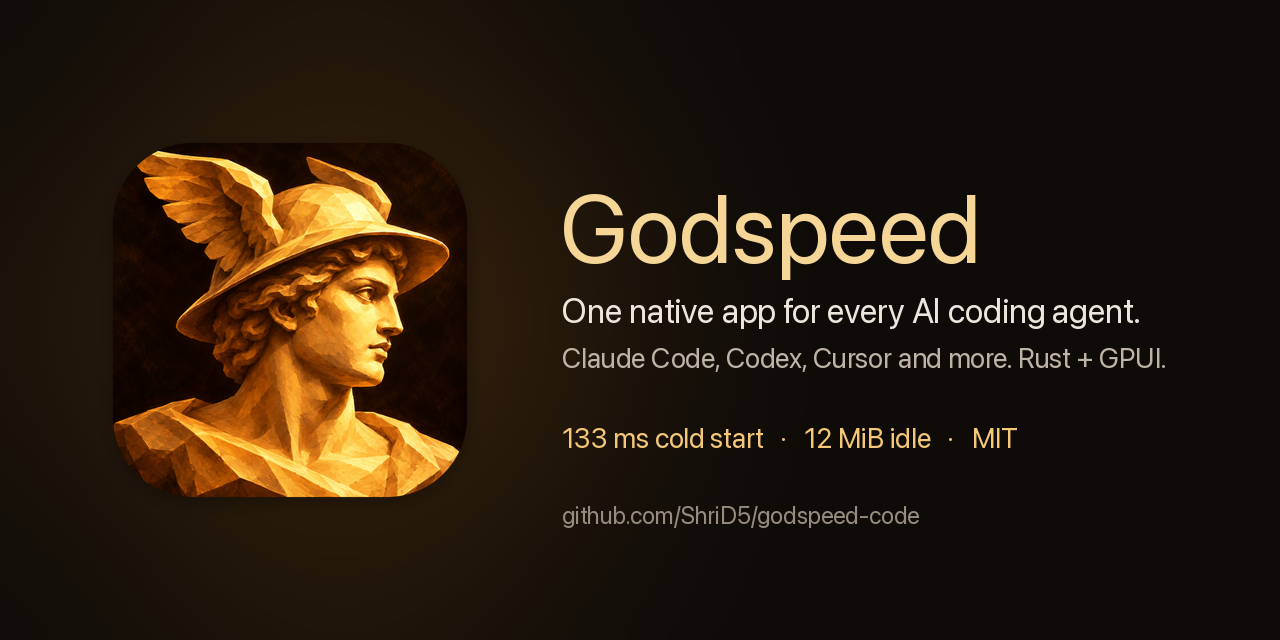
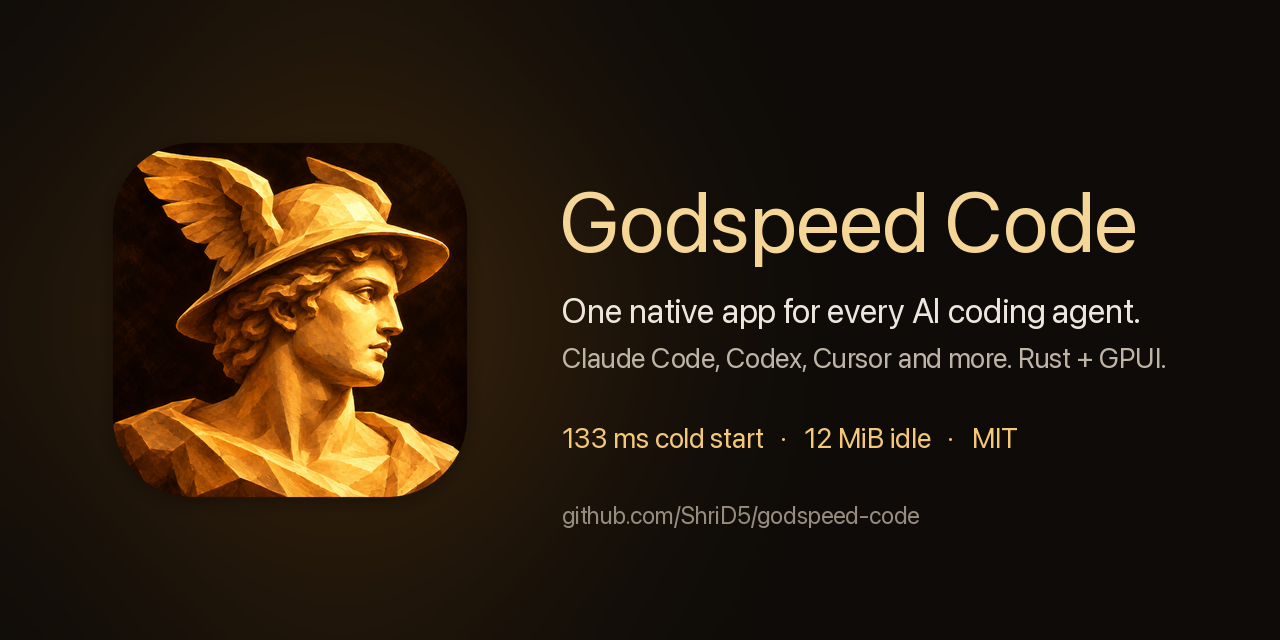
docs: use the public name Godspeed Code

Changed region(s): [[0.4375, 0.2812, 0.9062, 0.4375]]

diff --git a/docs/godspeed/LAUNCH.md b/docs/godspeed/LAUNCH.md
@@ -17,10 +17,12 @@ The repo went public on 2026-10-19 as ShriD5/godspeed-code.
 
 ## Owner decisions (blockers)
 
-1. **Name.** "Godspeed – To Do List" (Otto Labs, LLC, godspeedapp.com) is an existing Mac/iOS
+1. **Name.** DECIDED 2026-10-19: public name **Godspeed Code** (repo `godspeed-code`); the app label stays "Godspeed"; use "Godspeed Code" as the App Store name.
+   Background: "Godspeed – To Do List" (Otto Labs, LLC, godspeedapp.com) is an existing Mac/iOS
    productivity app. The App Store will not accept the same name for the iPhone app, and it is a
    trademark risk in the same category. Options: a variant ("Godspeed Code"), or rename before launch.
-2. **Apple signing identity.** Releases are signed as Devakumar N M (team QPUV967B5U). Agree on
+2. **Apple signing identity.** DECIDED 2026-10-19: stays under Devakumar N M's team.
+   Background: Releases are signed as Devakumar N M (team QPUV967B5U). Agree on
    public use, or move signing to the owner's own developer account.
 3. **Cloud sync on the owner's infrastructure.** Public users who choose Enable sync sign in through
    the WorkOS staging environment and use the owner's Cloudflare account. Before launch: WorkOS

diff --git a/README.md b/README.md
@@ -2,7 +2,7 @@
   <img src="dist/godspeed.png" alt="Godspeed app icon" width="160">
 </p>
 
-<h1 align="center">Godspeed</h1>
+<h1 align="center">Godspeed Code</h1>
 
 <p align="center">One native app for every AI coding agent. Rust + GPUI.</p>
 
@@ -16,7 +16,7 @@
 > **Early access.** Godspeed 0.5 is an early release. Expect rough edges. See
 > [ROADMAP.md](docs/godspeed/ROADMAP.md) for what is done and what is next.
 
-Godspeed runs the coding-agent CLIs you already have (Claude Code, Codex, Cursor and more) in one
+Godspeed Code (Godspeed for short) runs the coding-agent CLIs you already have (Claude Code, Codex, Cursor and more) in one
 GPU-rendered desktop app. It drives each agent over its own protocol, keeps every chat in a local
 store, and can keep agents running on a schedule or trigger. It never resells model access: you sign
 in to each agent with its own CLI.
